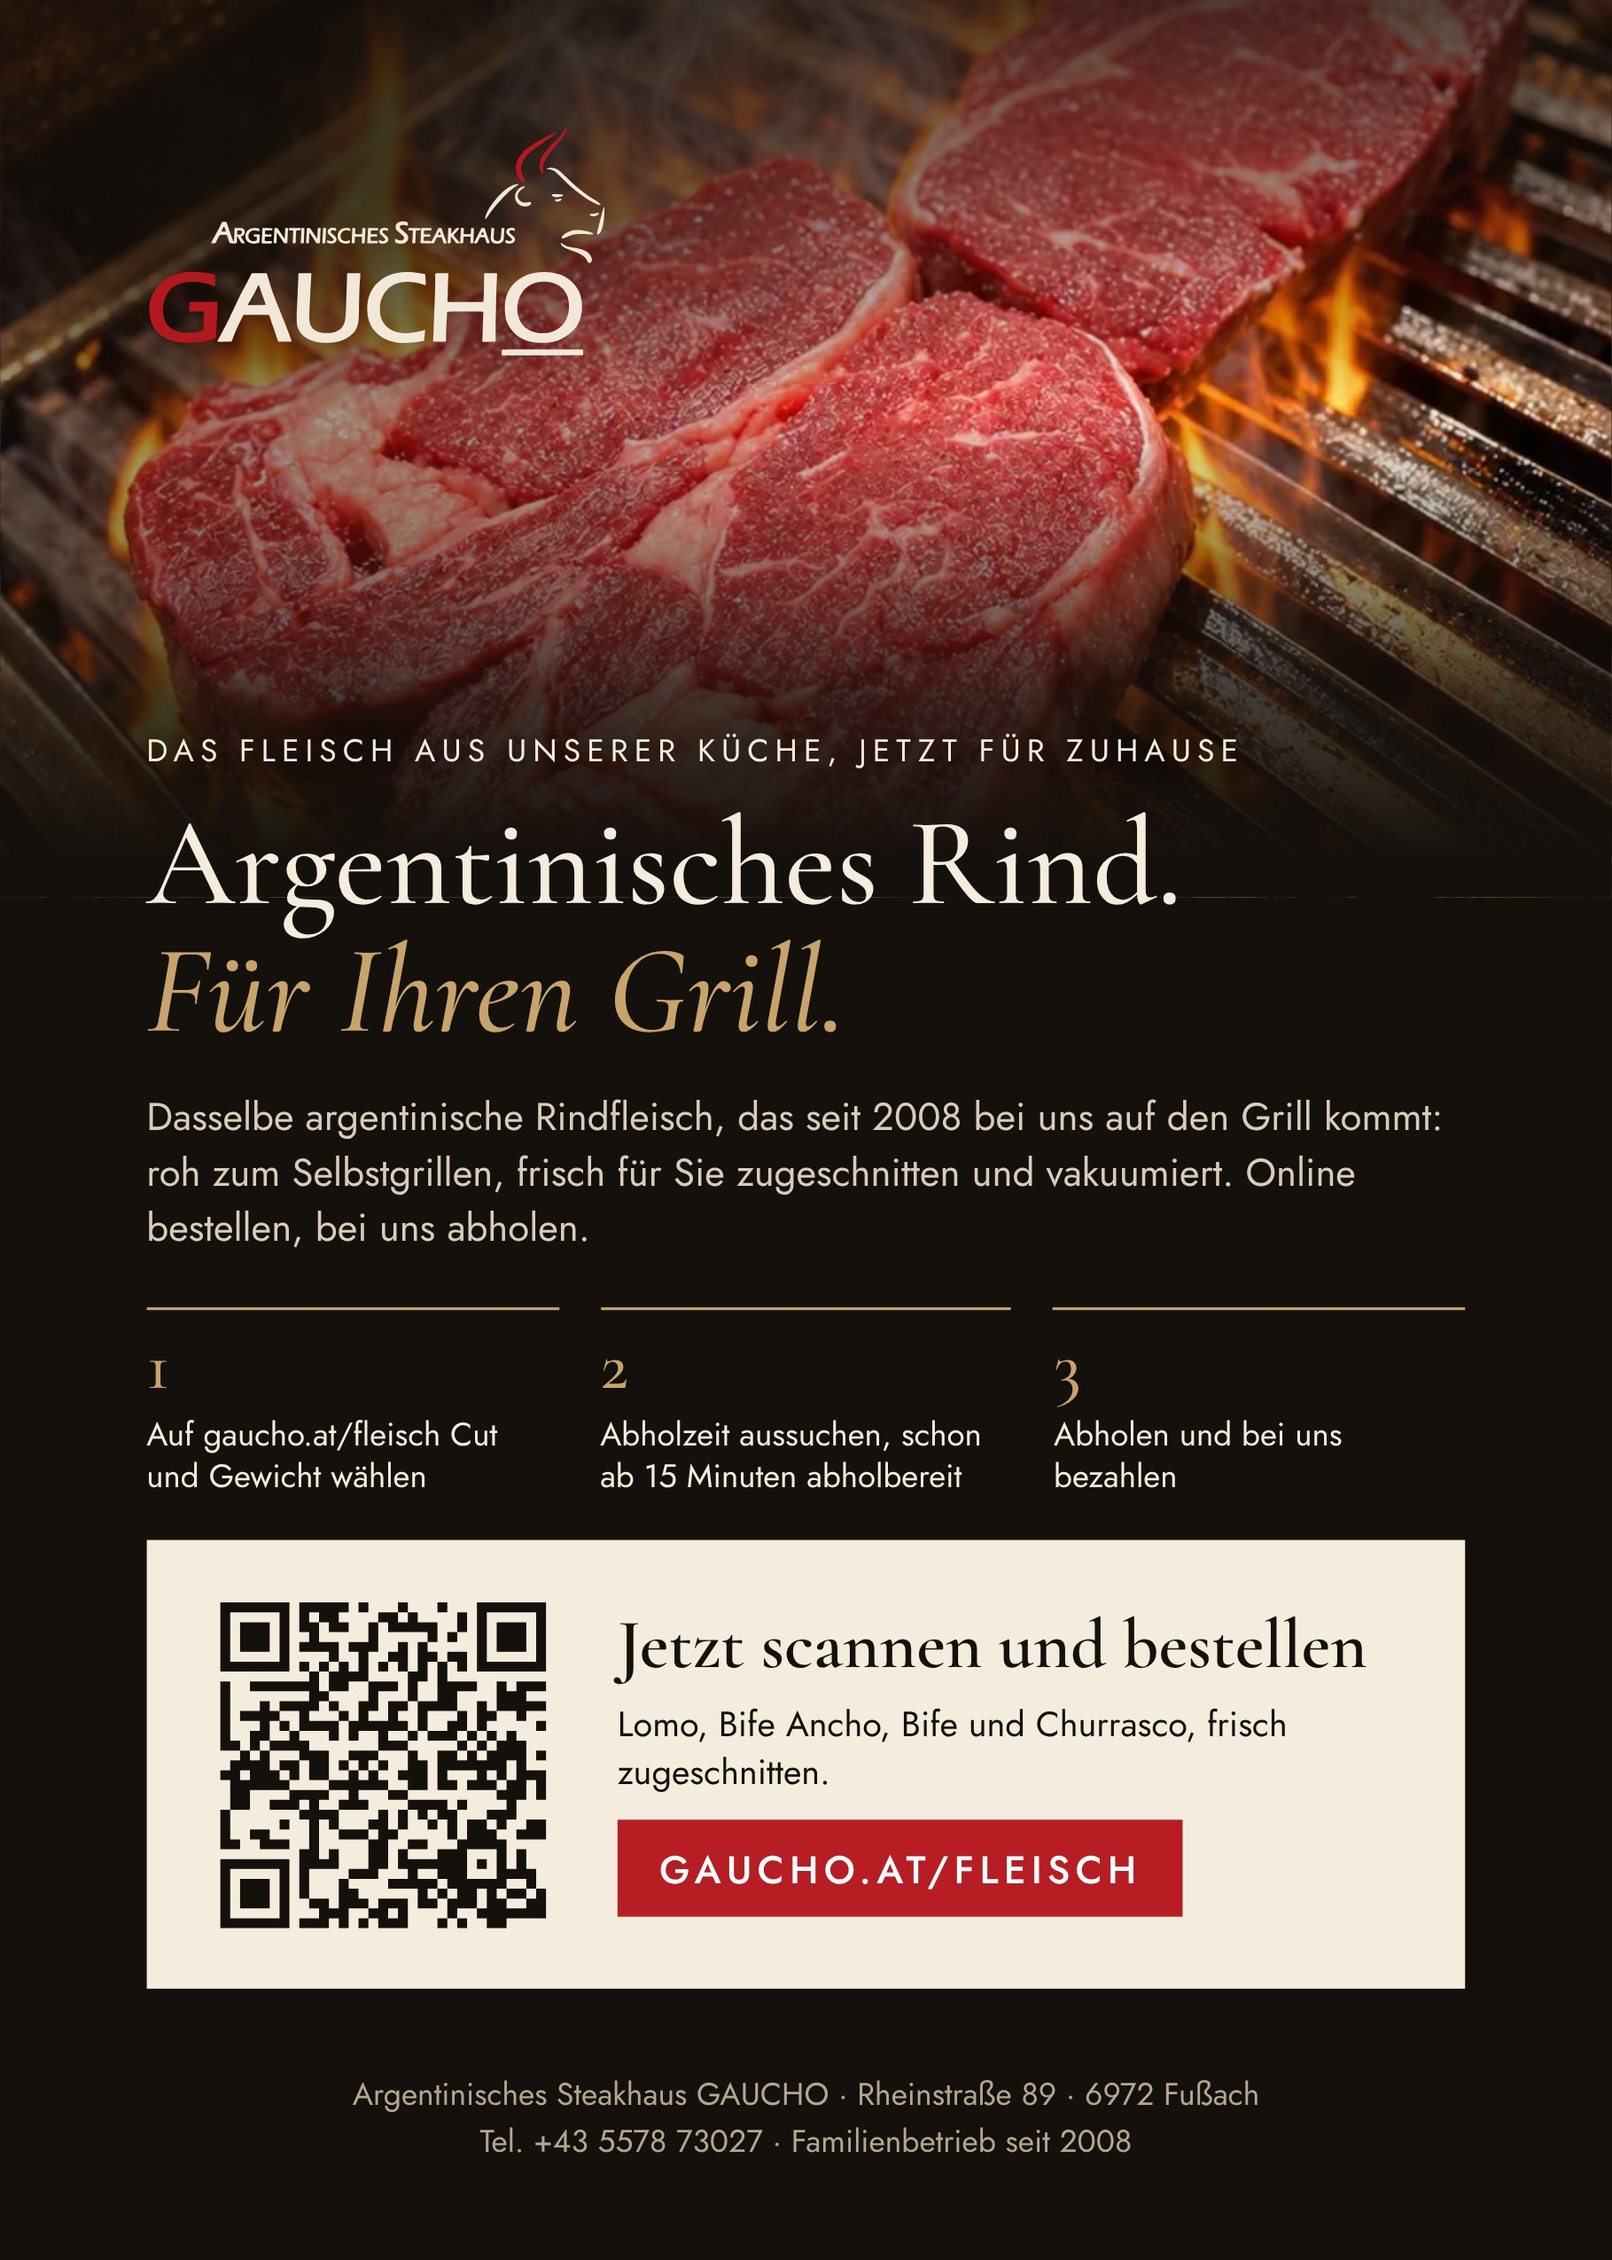
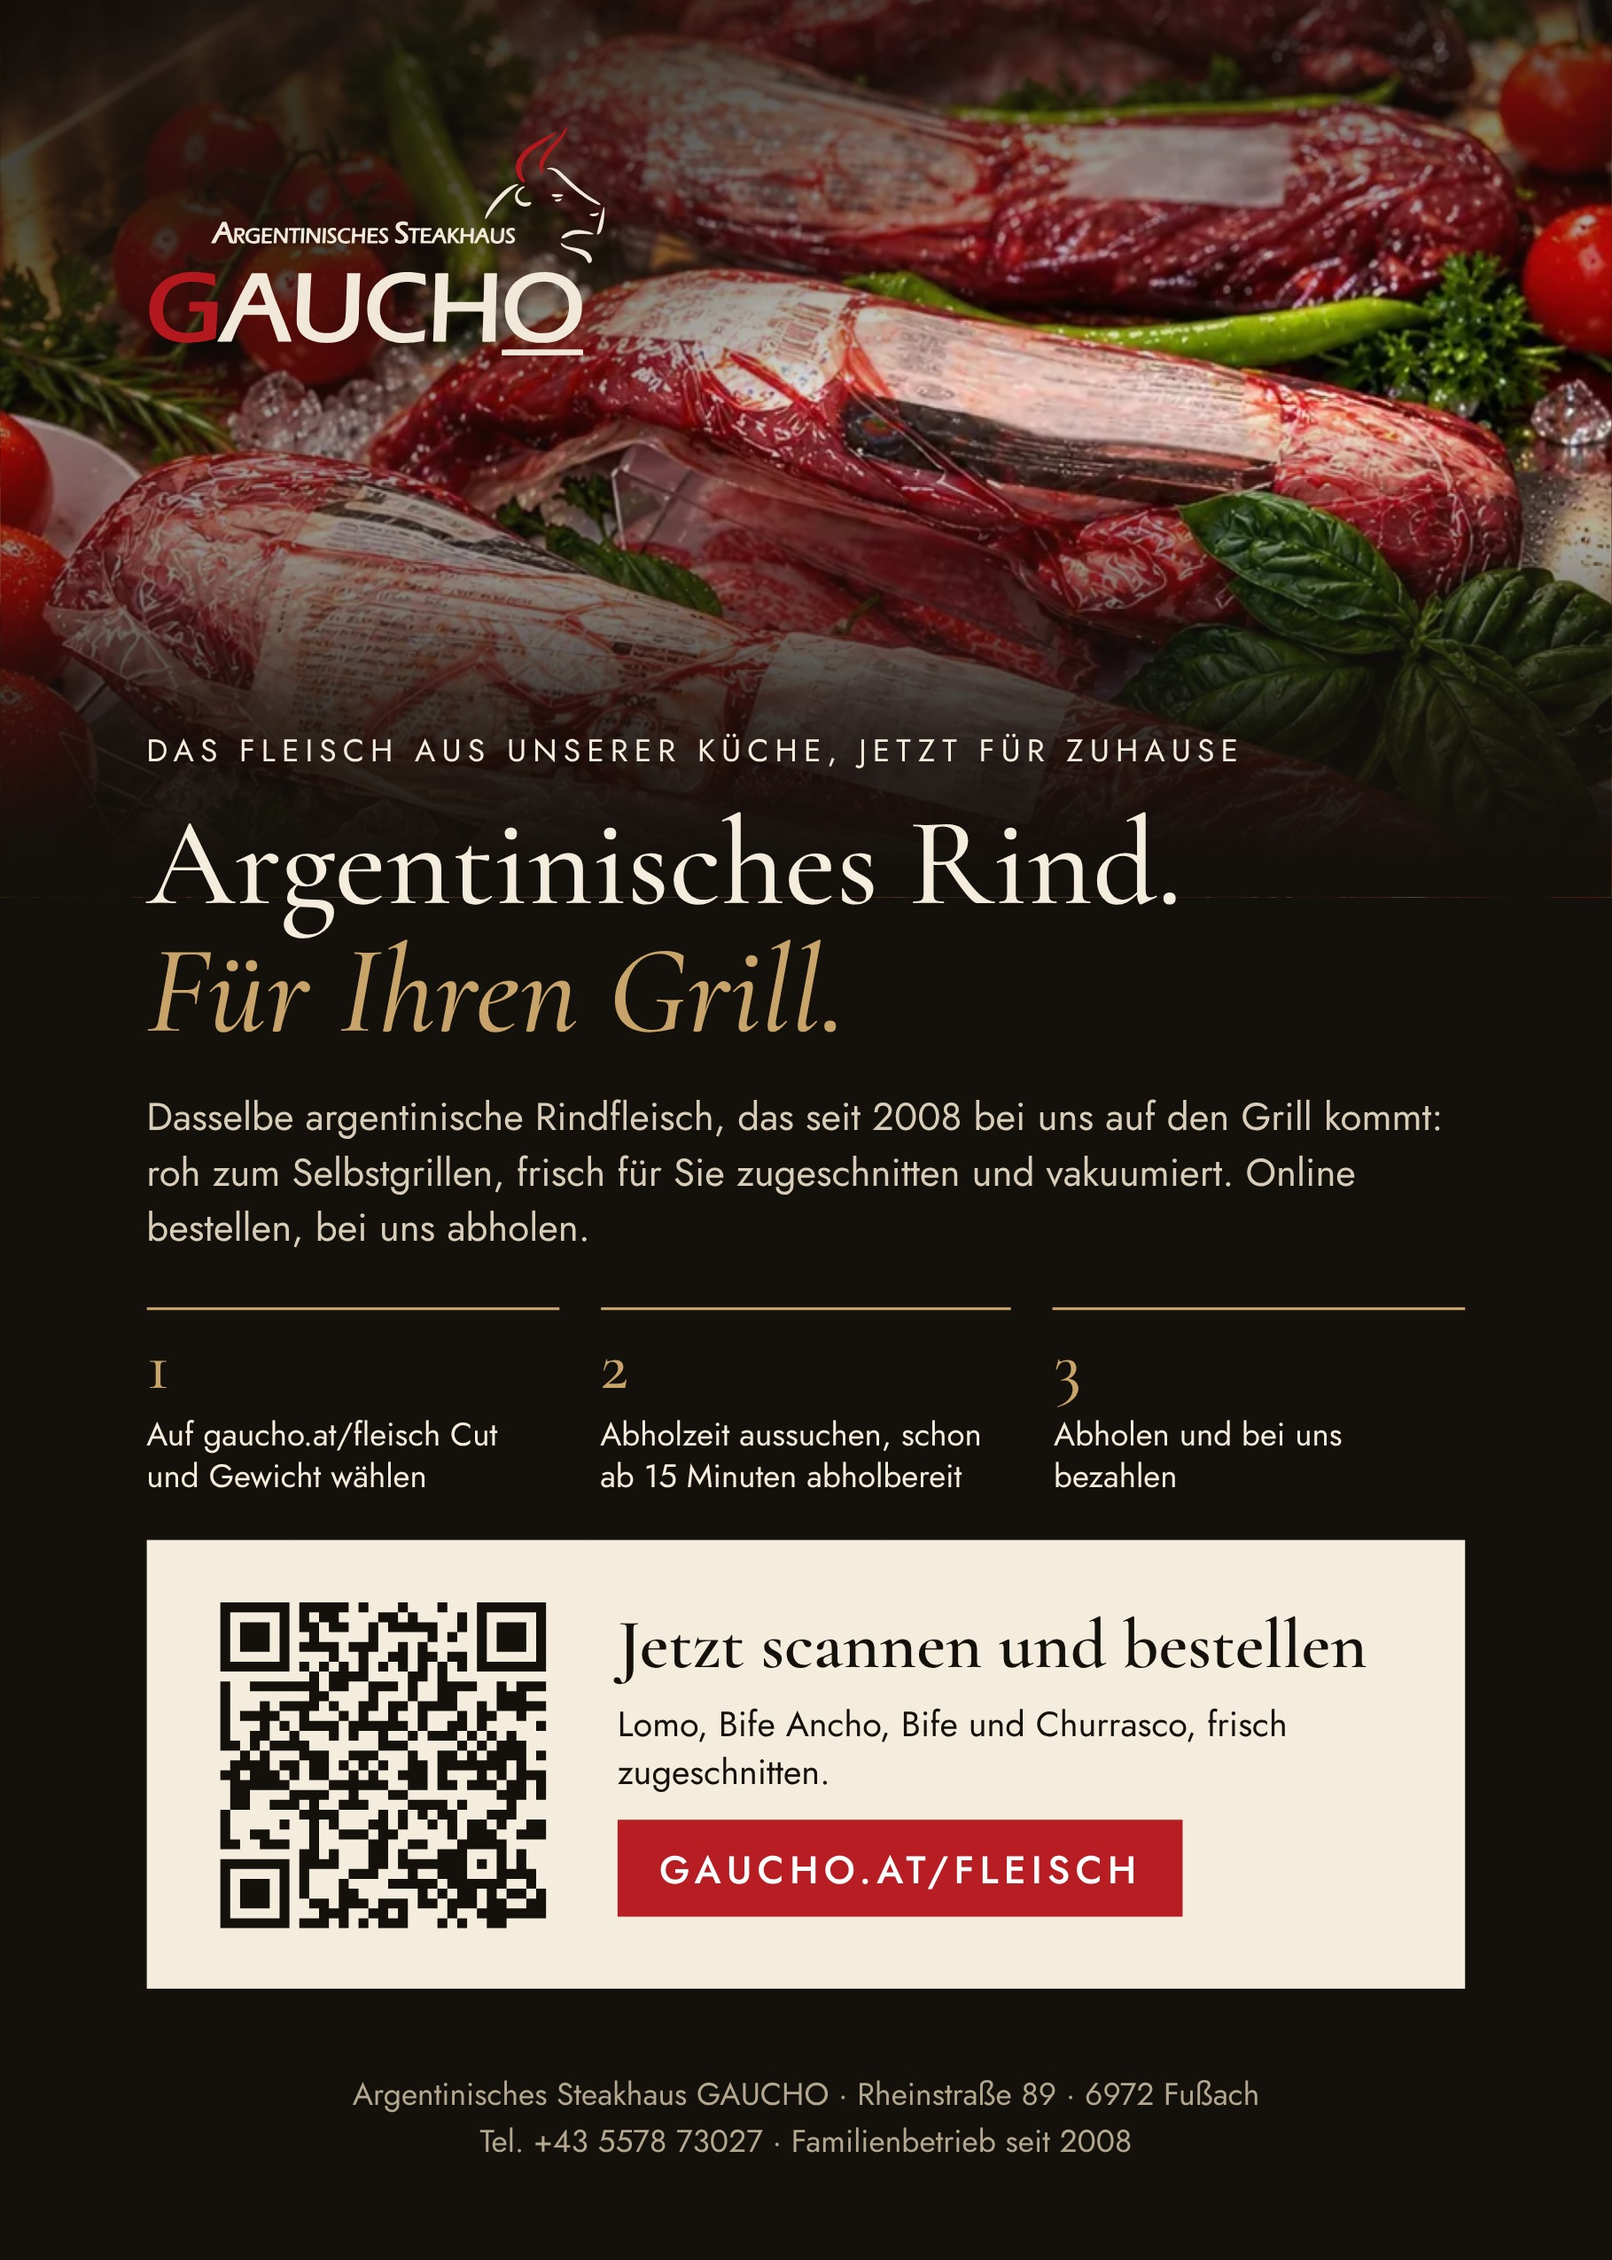
Flyer vorne wieder mit vakuumiertem Fleisch
Claude-Session: https://claude.ai/code/session_01YbDbssFw5gtfydQv6mVBaH

Changed region(s): [[0.0, 0.0, 1.0, 0.3408]]

diff --git a/flyer/flyer.html b/flyer/flyer.html
@@ -5,7 +5,7 @@
 *{box-sizing:border-box;margin:0;padding:0}
 html,body{width:154mm;height:216mm;background:#14100c;color:#f4ecdc;font-family:Jost,sans-serif;-webkit-print-color-adjust:exact;print-color-adjust:exact}
 .f{position:relative;width:154mm;height:216mm;overflow:hidden;display:flex;flex-direction:column}
-.foto{height:94mm;background:url(bilder/grill-roh-feuer-900.webp) center 58%/cover;position:relative}
+.foto{height:94mm;background:url(bilder/roh-vakuum-900.webp) center/cover;position:relative}
 .foto:after{content:"";position:absolute;inset:0;background:radial-gradient(ellipse 75mm 40mm at 22mm 18mm,rgba(20,16,12,.85),rgba(20,16,12,0) 100%),linear-gradient(180deg,rgba(20,16,12,.75),rgba(20,16,12,.25) 30%,rgba(20,16,12,0) 45%,rgba(20,16,12,.8) 78%,rgb(20,16,12) 96%,rgb(20,16,12) 100%)}
 .logo{position:absolute;top:12mm;left:14mm;width:44mm;z-index:2}
 .in{padding:0 14mm;flex:1;display:flex;flex-direction:column;margin-top:-16mm;position:relative;z-index:2}
